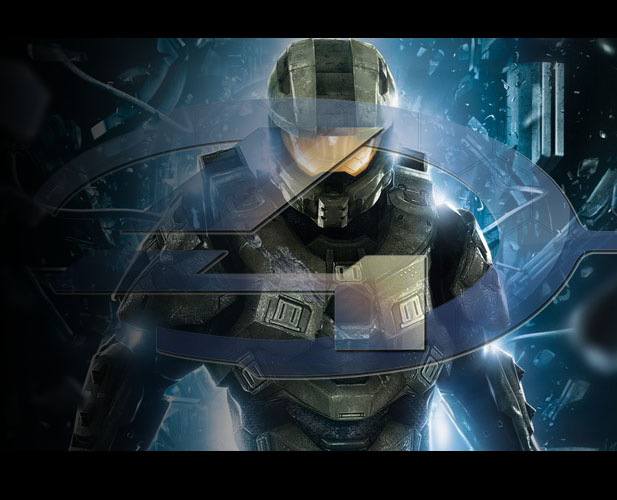
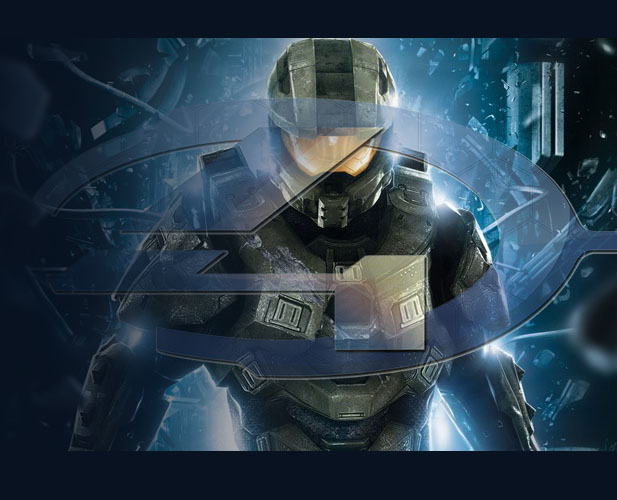
optimize jpg to gif

Changed region(s): [[0.0, 0.0, 1.0, 1.0]]

diff --git a/index.html b/index.html
@@ -16,7 +16,7 @@
 					</ul>
 				</nav>
 						<h1><a id="top">Halo 4</a></h1> 
-						<img src="https://github.com/gpmitchell27/wsd/raw/gh-pages/images/header_bg.jpg" width="617" height="500" alt="Master Chief looking slick">
+						<img src="https://github.com/gpmitchell27/wsd/raw/gh-pages/images/header_bg.gif" width="617" height="500" alt="Master Chief looking slick">
 	</header>
 		<h2>The Reclaimer Trilogy</h2>
 			<p><a href="http://halo.xbox.com/halo4/en-US/?:" target="_blank">Halo  4</a> is an upcoming first-person shooter video game and the eighth installment in the Halo franchise being developed for the Xbox 360. Halo 4 is intended to be the first of a new trilogy of Halo series games, named the "Reclaimer Trilogy".Whereas the previous Halo games were developed by Bungie, Halo 4 will be developed by 343 Industries. The game begins 4 years after the ending of Halo 3, and marks the return of the Master Chief as the main protagonist, and AI Cortana.</p>
